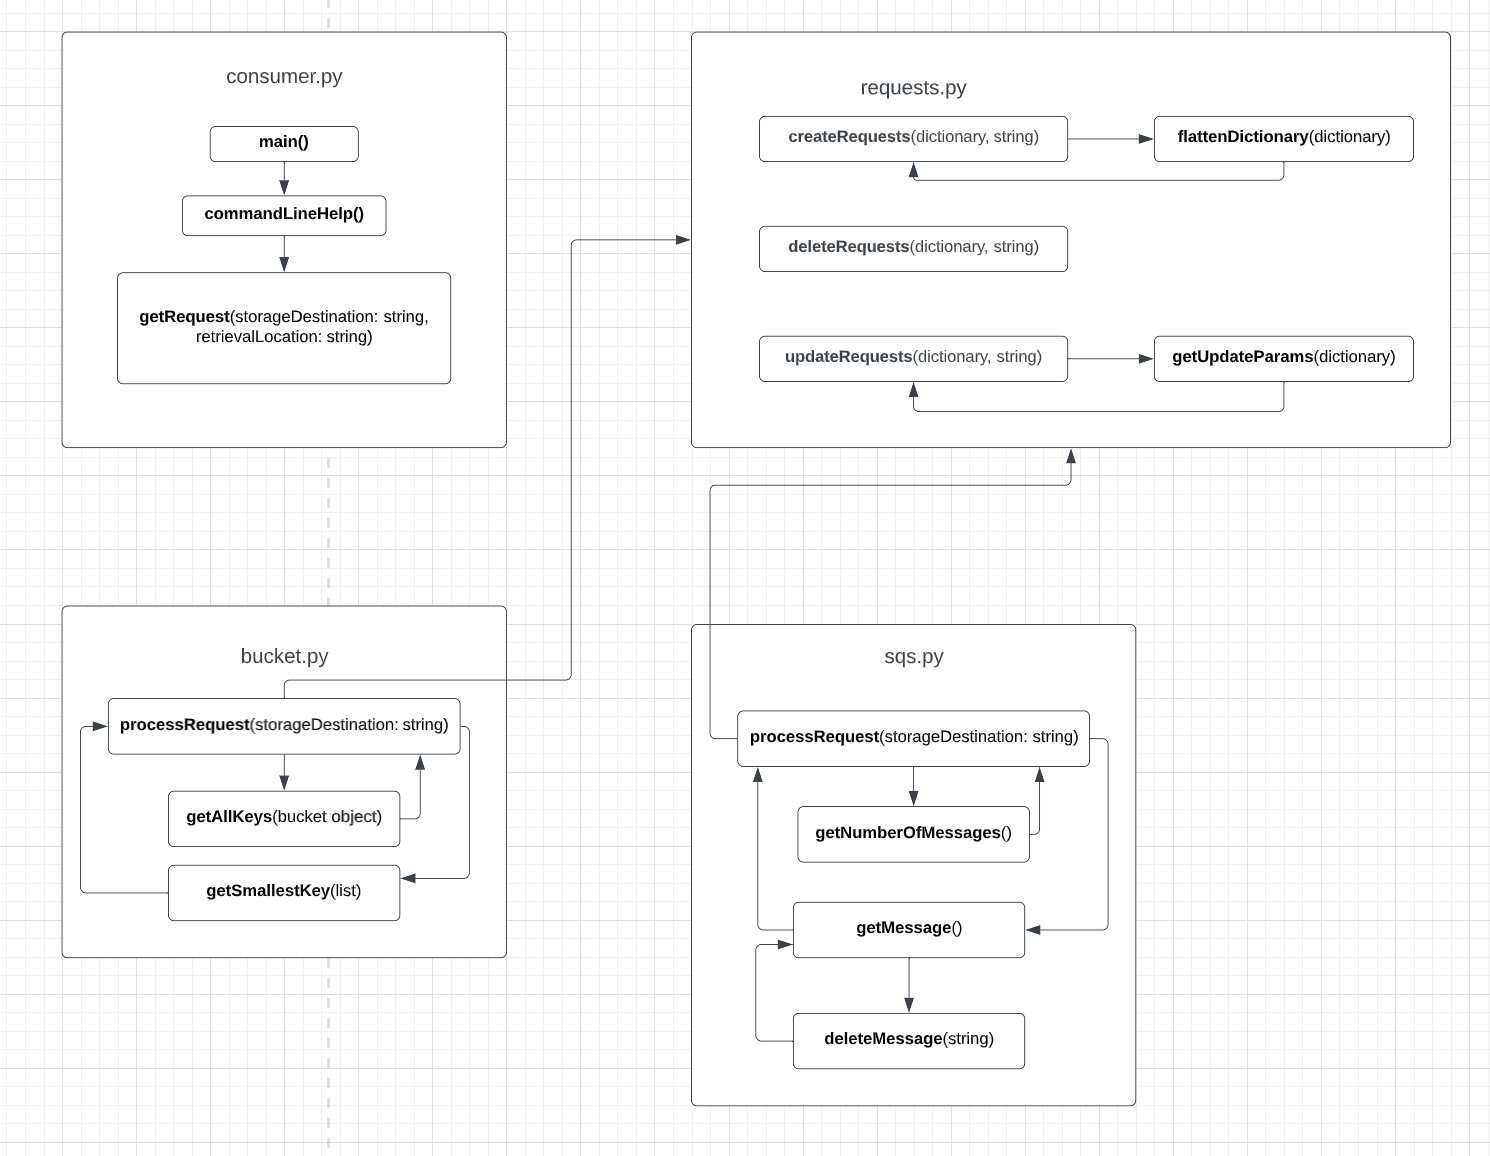
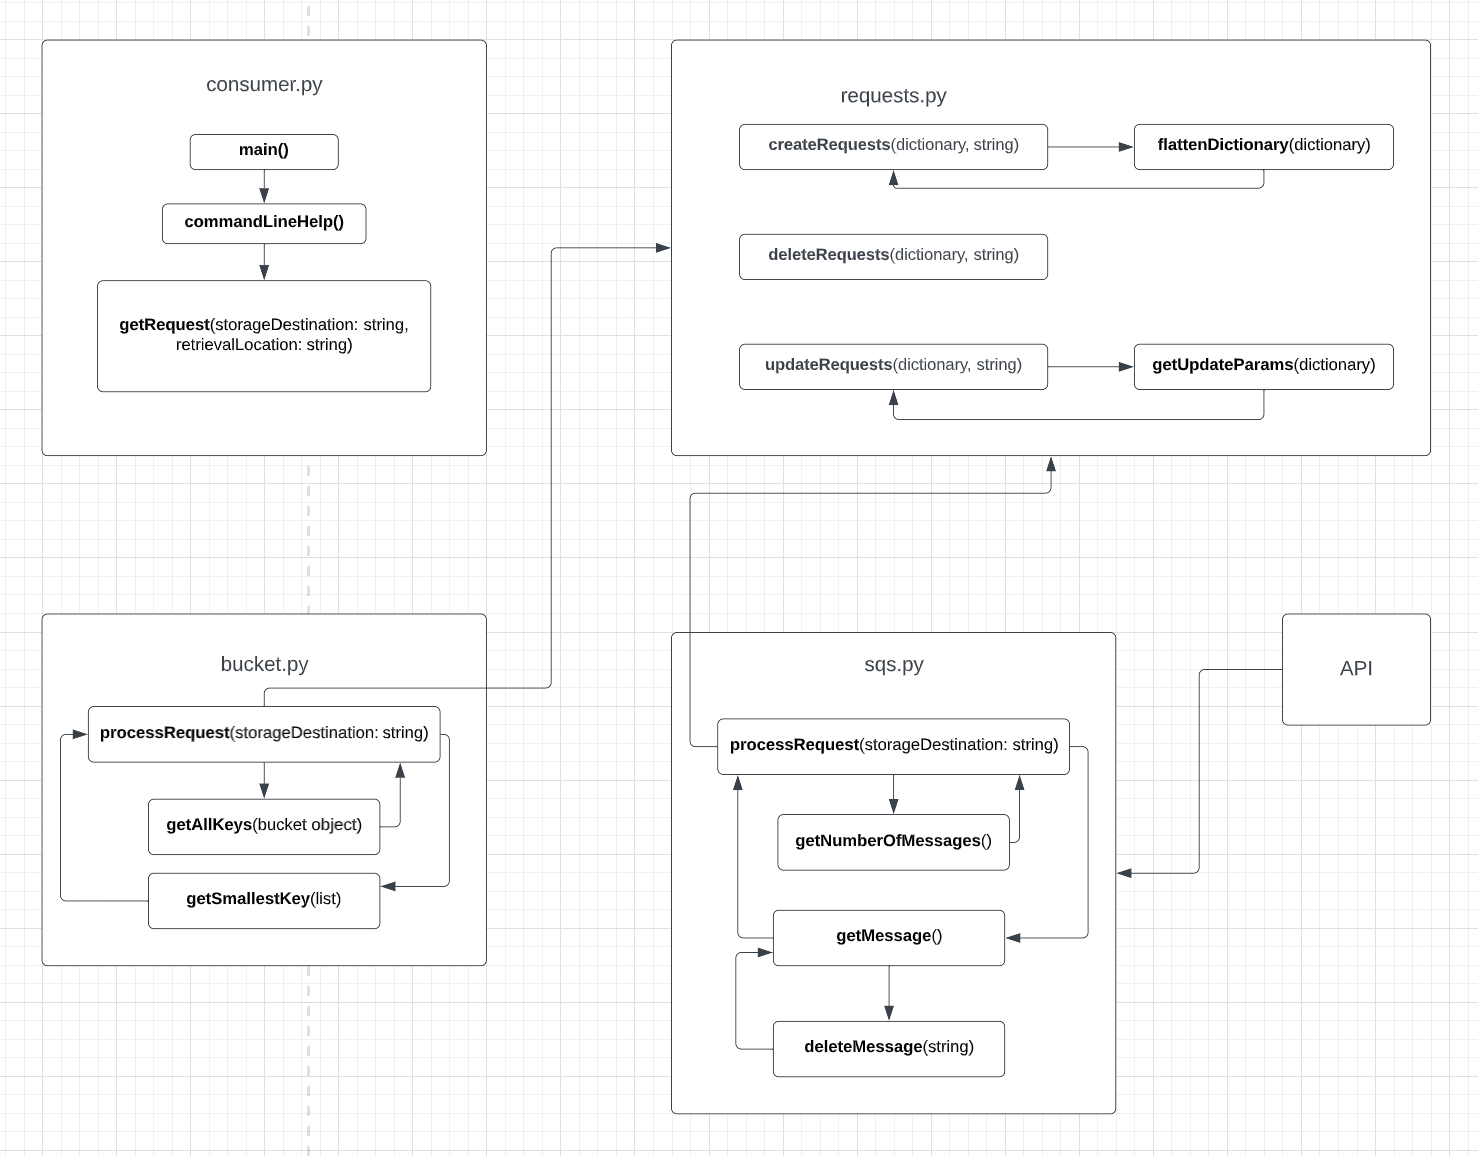
updated my uml and added the lambda function

diff --git a/lambda_function.py b/lambda_function.py
@@ -1,0 +1,19 @@
+import json
+import boto3
+
+def lambda_handler(event, context):
+    sqs = boto3.client('sqs', region_name='us-east-1')
+    queue_url = "https://sqs.us-east-1.amazonaws.com/009923585255/cs5260-requests"
+    
+    response = sqs.send_message(
+    QueueUrl=queue_url,
+    MessageBody=json.dumps(event),
+    )
+
+    return {
+        'statusCode': 200,
+        'body': response
+    }
+
+# invoke url for api
+# https://tqqj1wobug.execute-api.us-east-1.amazonaws.com/prod
